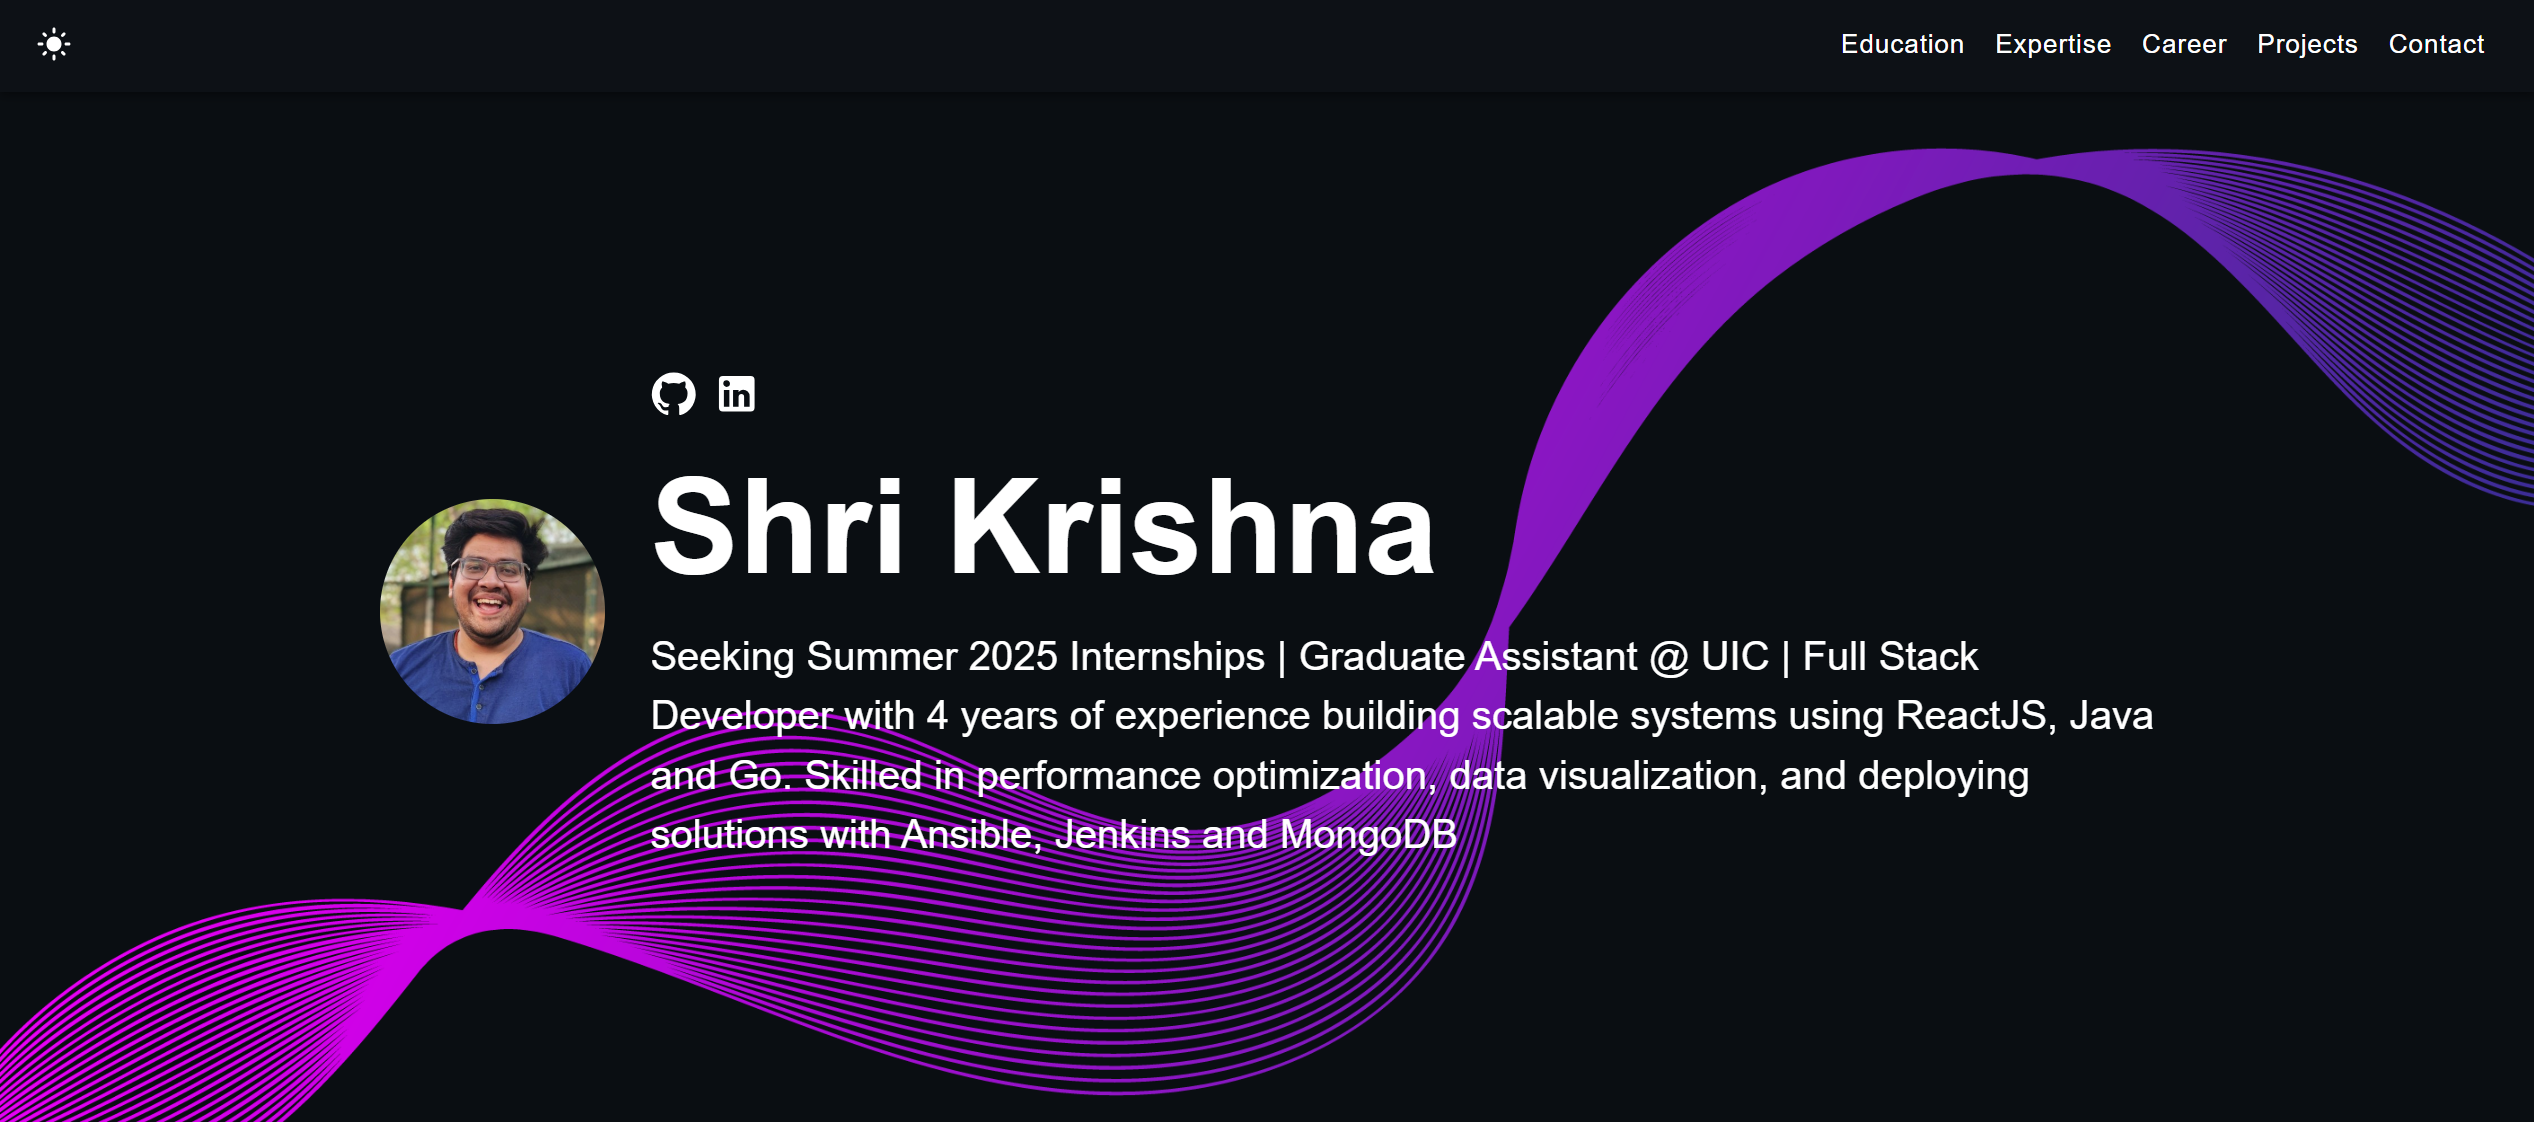
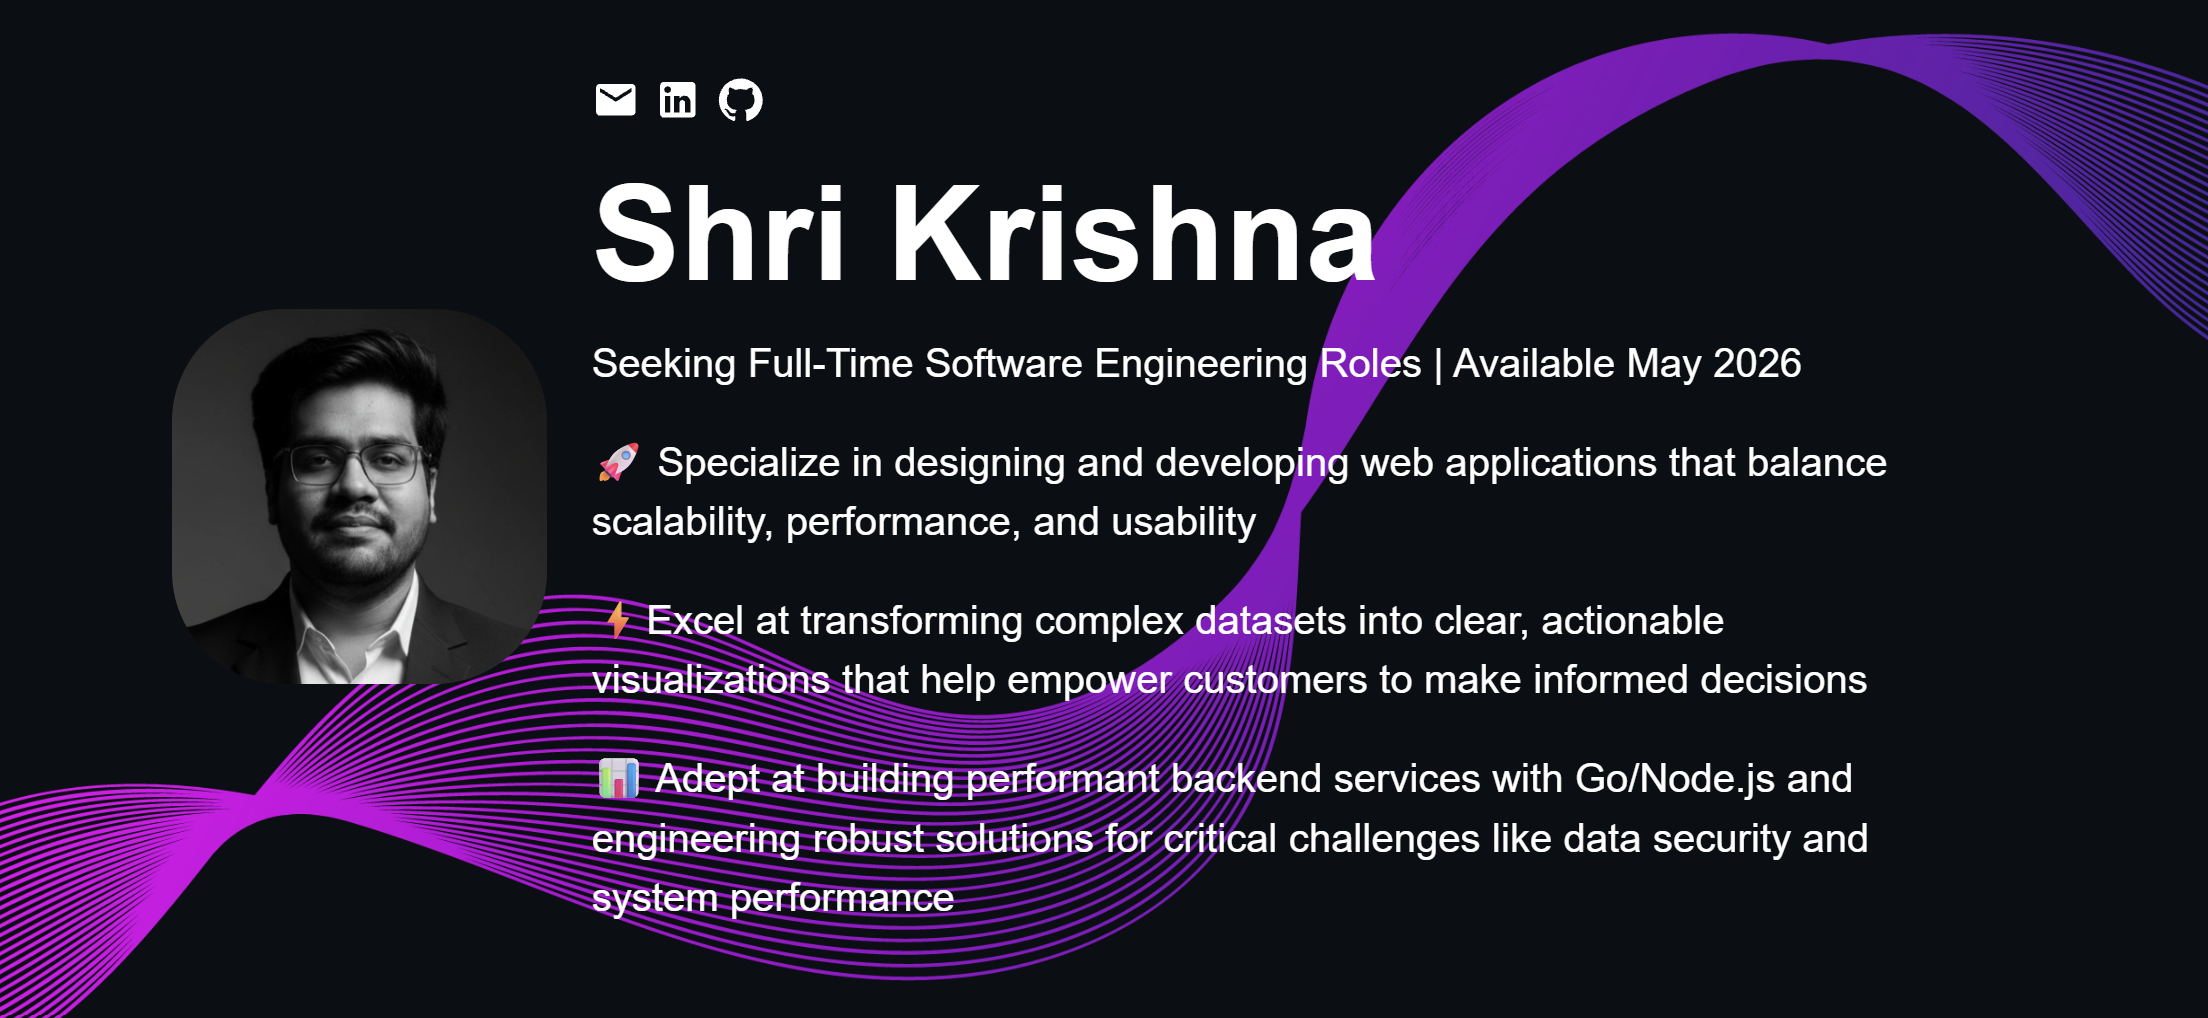
Update email contact to new address in Footer and Main components

Changed region(s): [[0.0, 0.0305, 1.0, 1.0], [0.25, 0.0609, 0.3438, 0.1218], [0.0, 0.0305, 0.0312, 0.0609]]

diff --git a/src/components/Main.tsx b/src/components/Main.tsx
@@ -13,7 +13,7 @@ function Main() {
         </div>
         <div className="content">
           <div className="social_icons">
-            <a href="mailto:shrikrishna1220@gmail.com?subject=Inquiry%20from%20Portfolio&body=Hi,%0AI%20saw%20your%20portfolio%20and%20would%20like%20to%20connect.">
+            <a href="mailto:skris56@uic.edu?subject=Inquiry%20from%20Portfolio&body=Hi,%0AI%20saw%20your%20portfolio%20and%20would%20like%20to%20connect.">
               <MailIcon />
             </a>
             <a

diff --git a/src/components/Footer.tsx b/src/components/Footer.tsx
@@ -21,7 +21,7 @@ function Footer() {
         >
           <LinkedInIcon />
         </a>
-        <a href="mailto:shrikrishna1220@gmail.com?subject=Inquiry%20from%20Portfolio&body=Hi,%0AI%20saw%20your%20portfolio%20and%20would%20like%20to%20connect.">
+        <a href="mailto:skris56@uic.edu?subject=Inquiry%20from%20Portfolio&body=Hi,%0AI%20saw%20your%20portfolio%20and%20would%20like%20to%20connect.">
           <MailIcon />
         </a>
       </div>
